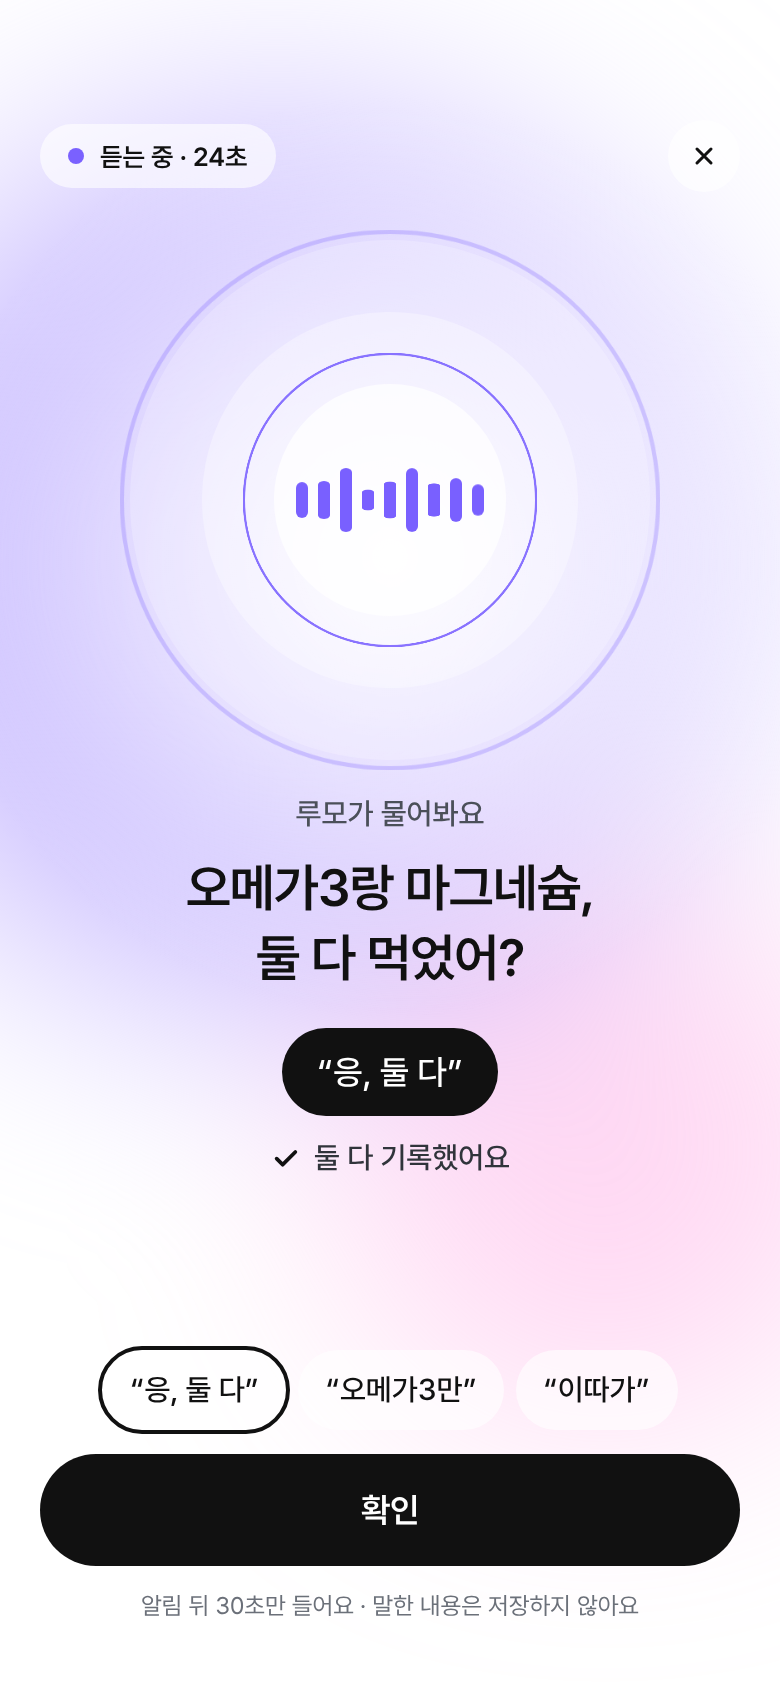
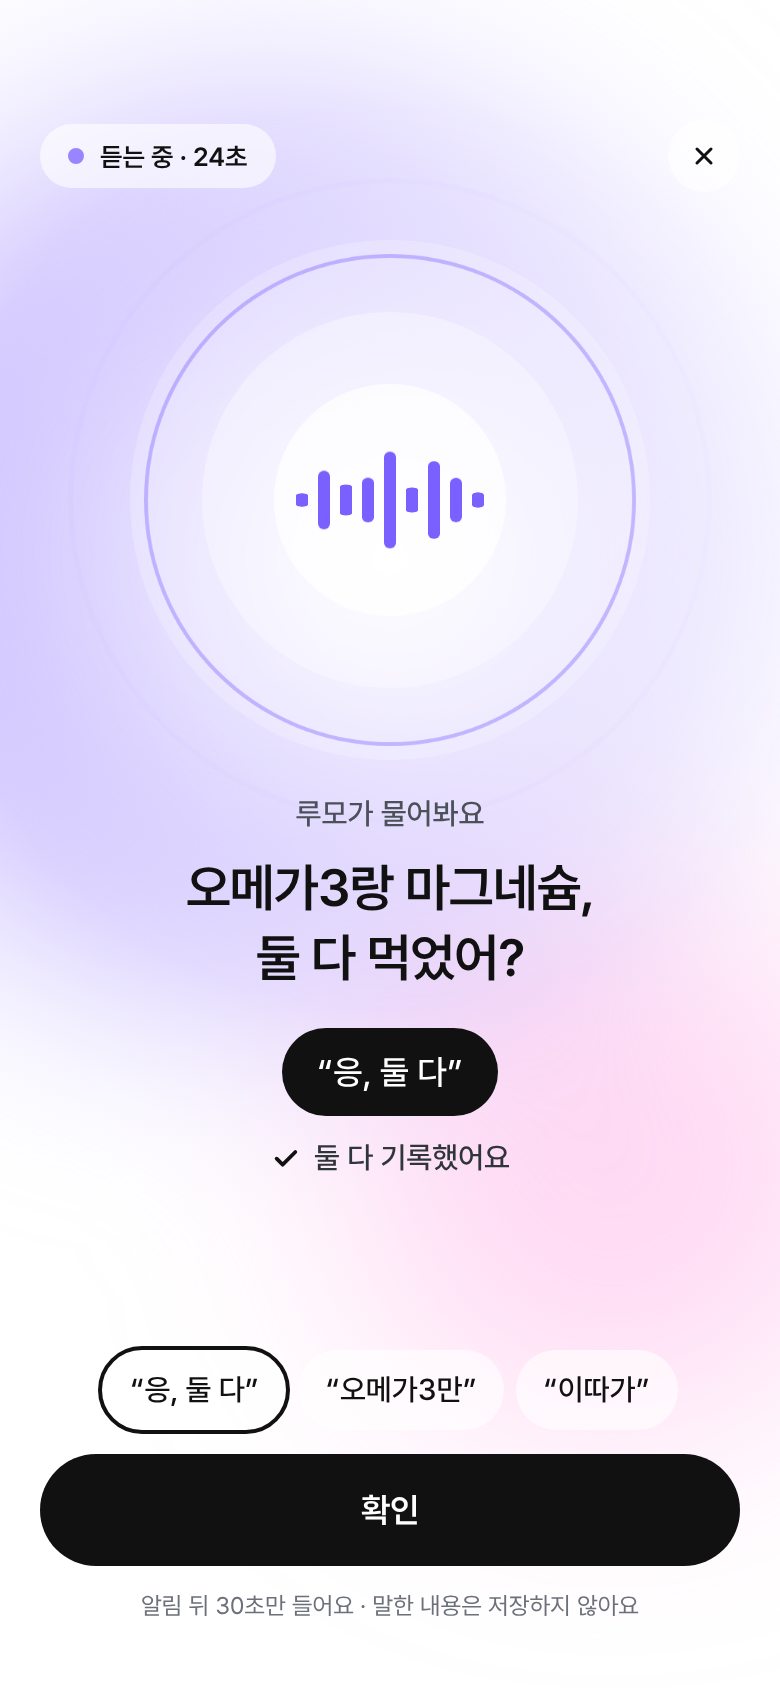
Add canvas-to-site sync tools and refresh images
Claude-Session: https://claude.ai/code/session_013fdUr4ww8jB4huXazUYdTj

diff --git a/tools/sync/render.js b/tools/sync/render.js
@@ -1,0 +1,15 @@
+// Captures slide images + home screens from tools/sync/.render (served by serve.py on :8765)
+const { chromium } = require('playwright'); const fs = require('fs'); const path = require('path');
+const REPO = path.resolve(__dirname, '..', '..'); const IMG = path.join(REPO, 'docs', 'img');
+const slides = fs.readFileSync(path.join(__dirname, 'slides.txt'), 'utf8').trim().split('\n').map(l => l.split('\t')[0]);
+(async () => {
+  const b = await chromium.launch(); const errs = [];
+  let p = await b.newPage({ viewport: { width: 1920, height: 1080 } }); p.on('pageerror', e => errs.push(e.message));
+  for (const [i, f] of slides.entries()) {
+    await p.goto('http://localhost:8765/E_' + f + '.dc.html'); await p.waitForTimeout(f === 'BrandLogo' ? 6500 : 2600);
+    await p.screenshot({ path: path.join(IMG, `slide-${String(i + 1).padStart(2, '0')}.jpg`), type: 'jpeg', quality: 86 });
+  }
+  p = await b.newPage({ viewport: { width: 390, height: 844 }, deviceScaleFactor: 2 });
+  for (const f of ['Main', 'Alert', 'Voice', 'Done']) { await p.goto('http://localhost:8765/' + f + '.dc.html'); await p.waitForTimeout(2200); await p.screenshot({ path: path.join(IMG, `screen-${f}.png`) }); }
+  console.log('slides:', slides.length, 'errors:', errs.length ? errs.slice(0, 5).join(' | ') : 'none'); await b.close();
+})();

diff --git a/tools/sync/prepare.py b/tools/sync/prepare.py
@@ -1,0 +1,30 @@
+"""Copy fetched canvas files into the repo and build a local render folder.
+usage: python3 tools/sync/prepare.py <folder with fetched project/*.dc.html>
+"""
+import sys, os, re, glob, shutil
+SRC = sys.argv[1]; REPO = os.path.abspath(os.path.join(os.path.dirname(__file__), '..', '..'))
+src = glob.glob(os.path.join(SRC, '**', '*.dc.html'), recursive=True) + glob.glob(os.path.join(SRC, '**', 'canvas.json'), recursive=True)
+changed = []
+for f in src:
+    name = os.path.basename(f); dst = os.path.join(REPO, 'project', name)
+    new = open(f, 'rb').read()
+    if not os.path.exists(dst) or open(dst, 'rb').read() != new:
+        changed.append(name); open(dst, 'wb').write(new)
+    if name.endswith('.dc.html') and not name.startswith('Brand'):
+        shutil.copy(f, os.path.join(REPO, 'docs', 'app', 'screens', name))
+R = os.path.join(REPO, 'tools', 'sync', '.render'); os.makedirs(R, exist_ok=True)
+for f in glob.glob(os.path.join(REPO, 'project', '*.dc.html')): shutil.copy(f, R)
+for line in open(os.path.join(os.path.dirname(__file__), 'slides.txt')):
+    n = line.split('\t')[0].strip()
+    if not n: continue
+    open(os.path.join(R, 'E_' + n + '.dc.html'), 'w').write(
+        '<!doctype html><html lang="ko"><head><meta charset="utf-8"><title>' + n + '</title><script src="./support.js"></script></head><body><x-dc>'
+        '<div style="width: 1920px; height: 1080px;"><dc-import name="' + n + '" embed="{{yes}}" hint-size="1920px,1080px"></dc-import></div></x-dc>'
+        '<script type="text/x-dc" data-dc-script data-props=\'{"$preview":{"width":1920,"height":1080}}\'>class Component extends DCLogic { renderVals() { return { yes: true }; } }</script></body></html>')
+ids = set()
+for f in glob.glob(os.path.join(REPO, 'project', '*.dc.html')):
+    ids |= set(re.findall(r'/_blob/([0-9a-f]{32})', open(f).read()))
+have = {os.path.splitext(x)[0] for x in os.listdir(os.path.join(REPO, 'docs', 'blobs'))}
+print('CHANGED:', ' '.join(changed) or '(none)')
+print('MISSING_BLOBS:', ' '.join(sorted(ids - have)) or '(none)')
+print('support.js present:', os.path.exists(os.path.join(R, 'support.js')))

diff --git a/tools/sync/serve.py b/tools/sync/serve.py
@@ -1,0 +1,15 @@
+import http.server, os, sys
+ROOT=sys.argv[1]; BL=sys.argv[2]
+class H(http.server.SimpleHTTPRequestHandler):
+    def __init__(s,*a,**k): super().__init__(*a,directory=ROOT,**k)
+    def do_GET(s):
+        if s.path.startswith('/_blob/'):
+            i=s.path.split('/')[-1]
+            for ext,ct in (('.svg','image/svg+xml'),('.woff2','font/woff2')):
+                f=os.path.join(BL,i+ext)
+                if os.path.exists(f):
+                    b=open(f,'rb').read(); s.send_response(200); s.send_header('Content-Type',ct); s.send_header('Content-Length',str(len(b))); s.end_headers(); s.wfile.write(b); return
+            s.send_error(404); return
+        return super().do_GET()
+    def log_message(s,*a): pass
+http.server.ThreadingHTTPServer(('127.0.0.1',int(sys.argv[3]) if len(sys.argv)>3 else 8765),H).serve_forever()

diff --git a/tools/sync/README.md b/tools/sync/README.md
@@ -1,0 +1,11 @@
+# 캔버스 → 사이트 동기화
+
+캔버스(Claude Design 아티팩트 https://claude.ai/artifact/GnQangvfSwyDqs7UxXw5ZX)에서 고친 내용을 `docs/` 사이트에 반영하는 순서예요.
+
+1. 아티팩트의 `project/*.dc.html`, `project/canvas.json`을 한 폴더로 받아요(아티팩트 read, path별로).
+2. `python3 tools/sync/prepare.py <받은 폴더>` → `project/`, `docs/app/screens/` 갱신. `CHANGED`와 `MISSING_BLOBS`를 출력해요.
+3. `MISSING_BLOBS`가 있으면 아티팩트 에셋을 id별로 받아 `docs/blobs/<id>.svg`로 넣어요.
+4. 장표 이미지를 다시 찍으려면: 렌더러 `artifact-type/dc-runtime.js`를 아티팩트에서 받아 `tools/sync/.render/support.js`로 둬요(로컬 테스트용 · 커밋 금지, .gitignore 처리됨). 그다음
+   `python3 tools/sync/serve.py tools/sync/.render docs/blobs 8765 &` → `node tools/sync/render.js`
+5. 장표 순서/개수가 바뀌면 `slides.txt`와 `docs/deck.html`(N, names)도 같이 고쳐요.
+6. `BrandSite.dc.html`(랜딩)이 바뀌었으면 `docs/index.html`에 같은 내용을 옮겨요(정적 버전이라 자동으로는 안 바뀌어요).
